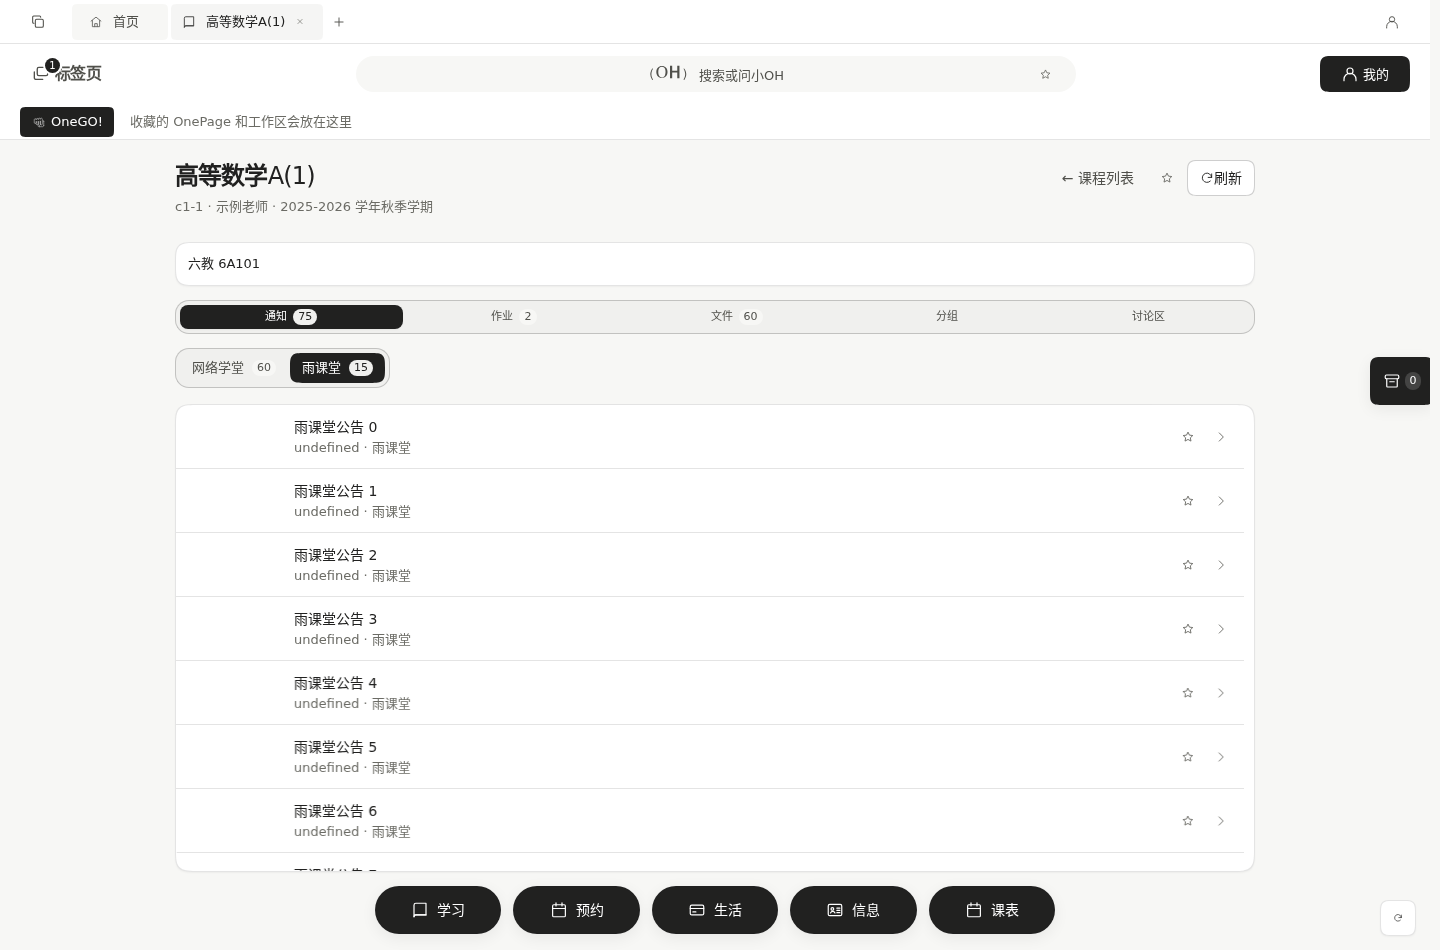
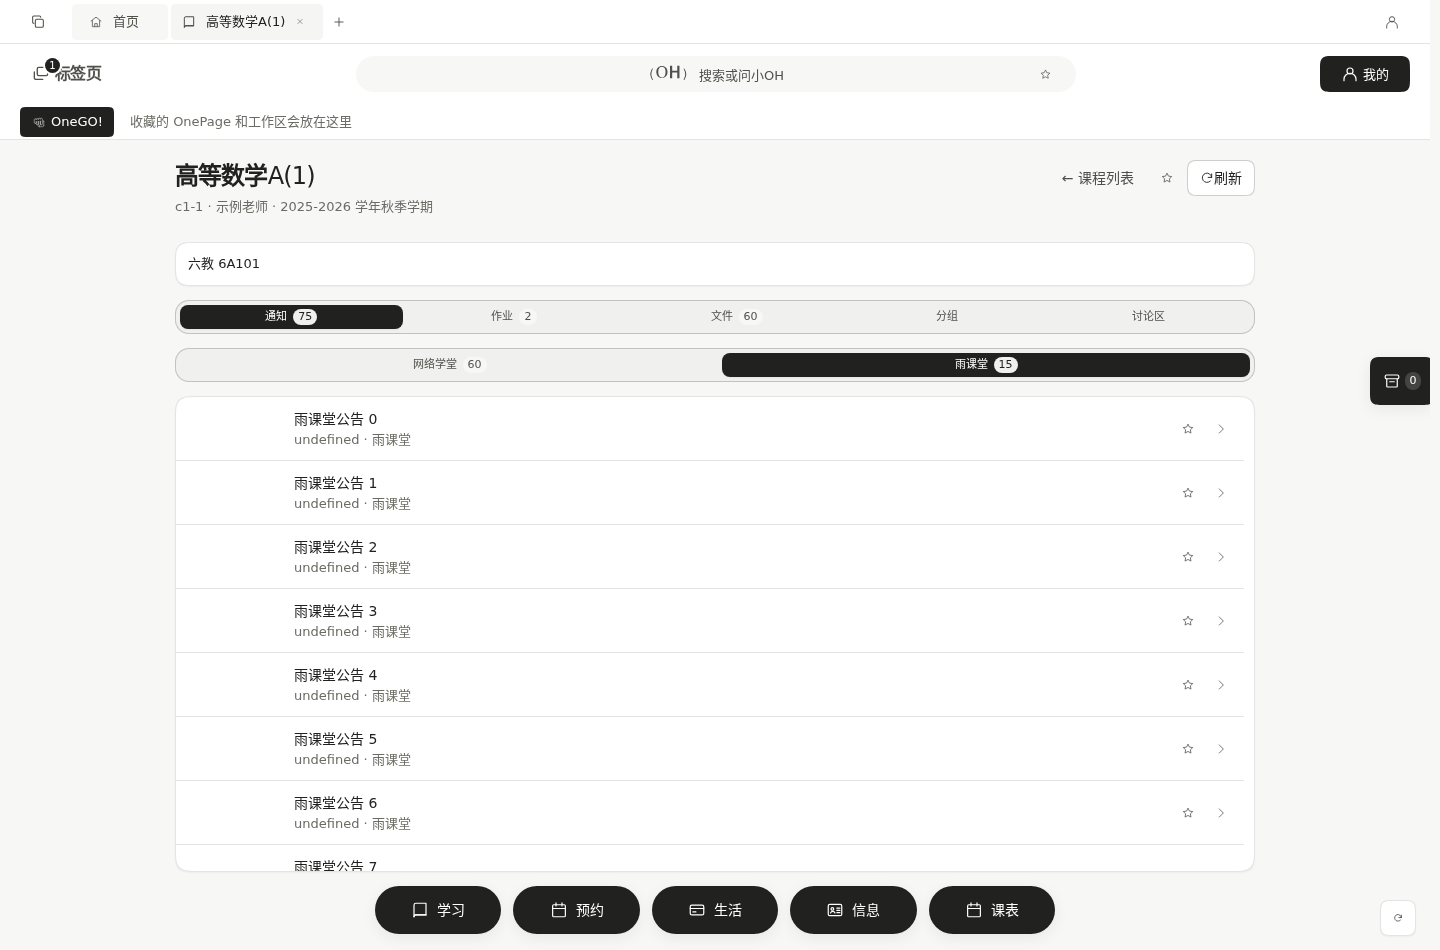
fix(learn): unify course tabs, stagger reveals, horizontal page head, restore card entrance
- 一级/作业筛选/双来源 tab 共用 CourseTabRow（SegmentedOverflow + seg-pill），同宽同动画
- reveal 初始延迟按父级索引计算（网格按行 9ms、列表 30ms），不再整列同时平移
- 页标题入场改为左→右；Learn 课程卡纳入 reveal，恢复网格入场
- 测试覆盖等宽/胶囊过渡/逐项延迟/标题方向/卡动画

Changed region(s): [[0.125, 0.3663, 0.3438, 0.9158], [0.5, 0.3663, 0.875, 0.3968]]

diff --git a/apps/desktop/src/pages/learn/CourseDetailPage.tsx b/apps/desktop/src/pages/learn/CourseDetailPage.tsx
@@ -1,10 +1,10 @@
 import { courseDisplayName } from "../../lib/learnLanguage.js";
 import { t as i18n, useLocale as useUiLocale } from "../../i18n/index.js";
-import { Btn, Tabs } from "@onethu/gui";
+import { Btn } from "@onethu/gui";
 /** 课程详情（learnX CourseDetail）：头部课程信息 + 通知/作业/文件/分组/讨论区 tab 列表。
  *  作业 tab 带状态筛选 chips（未提交/已提交/已批改/全部，AssignmentsPage 同款 segmented），
  *  已批改条目直接显示成绩（HomeworkRow showGrade，thu-app learnHome「已批改 (分数)」语义）。 */
-import { useEffect, useMemo, useState } from "react";
+import { useEffect, useMemo, useState, type ReactNode } from "react";
 import type { LearnGroup } from "@onethu/core";
 import { SegmentedOverflow, Card, Empty, ErrorNote, ListWindow, PageHead, SkeletonRows } from "../../components/Layout.js";
 import { CollectStar } from "../../components/Collect.js";
@@ -31,6 +31,35 @@ const TABS: Array<{ key: Tab; label: string }> = [
   { key: "groups", get label() { return i18n("pages.learn.coursedetailpage.399ee6934772"); } },
   { key: "forum", get label() { return i18n("pages.learn.coursedetailpage.9c92c9d08b05"); } },
 ];
+
+/** 课程页各级 tab 的唯一渲染器：全部走同一个 SegmentedOverflow（滑动胶囊 + 溢出滚动），
+ *  一级 tab、作业状态筛选、通知/文件的网络学堂/雨课堂子 tab 因此同宽同形同动画。
+ *  裸 <button> 只在这里出现一次，避免各调用点各写一套。 */
+interface CourseTabItem { key: string; label: ReactNode; count?: number }
+
+function CourseTabRow({ items, value, onChange, ariaLabel }: {
+  items: CourseTabItem[];
+  value: string;
+  onChange: (key: string) => void;
+  ariaLabel?: string;
+}) {
+  return (
+    <SegmentedOverflow ariaLabel={ariaLabel}>
+      {items.map(({ key, label, count }) => (
+        <button
+          key={key}
+          role="tab"
+          aria-selected={value === key}
+          className={value === key ? "is-active" : ""}
+          onClick={() => onChange(key)}
+        >
+          {label}
+          {count !== undefined ? <span className="tab-count">{count}</span> : null}
+        </button>
+      ))}
+    </SegmentedOverflow>
+  );
+}
 
 /** 作业状态筛选（AssignmentsPage 同款口径：未提交 / 已提交未批改 / 已批改 / 全部） */
 type HwFilter = "unfinished" | "submitted" | "graded" | "ignored" | "all";
@@ -212,23 +241,11 @@ export function CourseDetailPage() {
 
       {state === "error" ? <ErrorNote text={error ?? ""} onRetry={() => void reload()} /> : null}
 
-      <SegmentedOverflow>
-        {TABS.map(({ key, label }) => {
-          const n = counts[key];
-          return (
-            <button
-              key={key}
-              role="tab"
-              aria-selected={tab === key}
-              className={tab === key ? "is-active" : ""}
-              onClick={() => setTab(key)}
-            >
-              {label}
-              {n !== undefined ? <span className="tab-count">{n}</span> : null}
-            </button>
-          );
-        })}
-      </SegmentedOverflow>
+      <CourseTabRow
+        value={tab}
+        onChange={(key) => setTab(key as Tab)}
+        items={TABS.map(({ key, label }) => ({ key, label, count: counts[key] }))}
+      />
 
       {state === "loading" && !data ? (
         <SkeletonRows rows={5} />
@@ -238,13 +255,12 @@ export function CourseDetailPage() {
         ) : (
           <>
             {notices.length > 0 && yktNotices.length > 0 ? (
-              <Tabs
-                className="segmented course-source-tabs"
+              <CourseTabRow
                 value={effectiveNoticeSource}
-                onChange={(value) => setNoticeSource(value as Source)}
+                onChange={(key) => setNoticeSource(key as Source)}
                 items={[
-                  { id: "learn", label: <>{i18n("enum.label.aa39cac2b409")}<span className="tab-count">{notices.length}</span></> },
-                  { id: "ykt", label: <>{i18n("components.attachactionssheet.38b9eabcae1b")}<span className="tab-count">{yktNotices.length}</span></> },
+                  { key: "learn", label: i18n("enum.label.aa39cac2b409"), count: notices.length },
+                  { key: "ykt", label: i18n("components.attachactionssheet.38b9eabcae1b"), count: yktNotices.length },
                 ]}
               />
             ) : null}
@@ -278,20 +294,12 @@ export function CourseDetailPage() {
         ) : (
           <>
             {/* 状态筛选 chips：AssignmentsPage 同款 segmented（含各组计数） */}
-            <SegmentedOverflow ariaLabel={i18n("pages.learn.coursedetailpage.5d2c51e297aa")}>
-              {HW_FILTERS.map(({ key, label }) => (
-                <button
-                  key={key}
-                  role="tab"
-                  aria-selected={hwFilter === key}
-                  className={hwFilter === key ? "is-active" : ""}
-                  onClick={() => setHwFilter(key)}
-                >
-                  {label}
-                  <span className="tab-count">{hwGroups[key].length}</span>
-                </button>
-              ))}
-            </SegmentedOverflow>
+            <CourseTabRow
+              ariaLabel={i18n("pages.learn.coursedetailpage.5d2c51e297aa")}
+              value={hwFilter}
+              onChange={(key) => setHwFilter(key as HwFilter)}
+              items={HW_FILTERS.map(({ key, label }) => ({ key, label, count: hwGroups[key].length }))}
+            />
             {hwList.length === 0 ? (
               <Card><Empty text={hwFilter === "ignored" ? i18n("pages.learn.coursedetailpage.052544849717") : i18n("pages.learn.coursedetailpage.4fc6f287e4e5")} /></Card>
             ) : (
@@ -321,13 +329,12 @@ export function CourseDetailPage() {
         ) : (
           <>
             {files.length > 0 && yktFiles.length > 0 ? (
-              <Tabs
-                className="segmented course-source-tabs"
+              <CourseTabRow
                 value={effectiveFileSource}
-                onChange={(value) => setFileSource(value as Source)}
+                onChange={(key) => setFileSource(key as Source)}
                 items={[
-                  { id: "learn", label: <>{i18n("enum.label.aa39cac2b409")}<span className="tab-count">{files.length}</span></> },
-                  { id: "ykt", label: <>{i18n("components.attachactionssheet.38b9eabcae1b")}<span className="tab-count">{yktFiles.length}</span></> },
+                  { key: "learn", label: i18n("enum.label.aa39cac2b409"), count: files.length },
+                  { key: "ykt", label: i18n("components.attachactionssheet.38b9eabcae1b"), count: yktFiles.length },
                 ]}
               />
             ) : null}

diff --git a/apps/desktop/src/lib/motion.ts b/apps/desktop/src/lib/motion.ts
@@ -84,7 +84,7 @@ export function useExitPhase(active: boolean, ms = 200): { mounted: boolean; clo
  */
 /** 只揭示不带材质的行/列表：玻璃卡片的容器不能有 opacity 动画（会丢背景模糊）。 */
 export const REVEAL_SELECTOR =
-  ":is(.list, .setting-group) > *, .row-click, .mail-row, .news-row, .setting-row, .cloud-row";
+  ":is(.list, .setting-group) > *, .row-click, .mail-row, .news-row, .setting-row, .cloud-row, .learn-course-card";
 
 const LONG_LIST_THRESHOLD = 40;
 
@@ -164,13 +164,27 @@ export function installScrollReveal(): void {
   /** 首屏已经在视口内的项必须在第一帧之前拿到 data-reveal-in：
    *  MutationObserver 在 paint 前跑，若等 100ms 防抖再标记，用户会先看到静止列表，
    *  随后整列突然跳到 -14px 再滑回来（霖 2026-11-01 现场「抽搐一下」）。 */
-  let initialSlot = 0;
   const markVisibleNow = (el: HTMLElement): boolean => {
     const rect = el.getBoundingClientRect();
     if (rect.width <= 0 || rect.height <= 0) return false;
     if (rect.bottom <= 0 || rect.top >= window.innerHeight * 0.92) return false;
-    const grid = el.closest(".app-grid, .thos-grid");
-    el.style.animationDelay = `${Math.min(initialSlot++, 12) * (grid ? 9 : 30)}ms`;
+    const grid = el.closest(".app-grid, .thos-grid, .learn-course-list");
+    // 延迟按「同一父级里的第几个」算，而不是全局计数器：否则先扫描到别的列表后，
+    // 后挂载的列表所有项都拿到 12×30=360ms，看起来是整列同时平移。网格按行分组。
+    let slot = 0;
+    const parent = el.parentElement;
+    if (grid) {
+      const top = Math.round(el.offsetTop);
+      const seen = new Set<number>();
+      for (const child of parent?.children ?? []) {
+        const childTop = Math.round((child as HTMLElement).offsetTop);
+        if (childTop < top) seen.add(childTop);
+      }
+      slot = seen.size;
+    } else if (parent) {
+      slot = Math.max(0, [...parent.children].indexOf(el));
+    }
+    el.style.animationDelay = `${Math.min(slot, 12) * (grid ? 9 : 30)}ms`;
     el.dataset.revealIn = "1";
     return true;
   };

diff --git a/apps/desktop/src/styles/motion.css b/apps/desktop/src/styles/motion.css
@@ -442,12 +442,12 @@ select {
 .tab-anim[data-dir="prev"] {
   animation: none;
 }
-/* 二级页保留一点"换页"感：只动页头块，不碰页面材质与卡片。 */
-.page-anim[data-level="sub"] > .page-head-host {
+/* 页头入场只做横向位移（左→右），不碰页面材质与卡片；主/二级页统一。 */
+.page-anim > .page-head-host {
   animation: m-page-head-in var(--dur-3) var(--ease-ios) backwards;
 }
 @keyframes m-page-head-in {
-  from { transform: translate3d(0, -5px, 0); }
+  from { transform: translate3d(-14px, 0, 0); }
   to { transform: none; }
 }
 
@@ -644,16 +644,19 @@ html.theme-anim .row {
    半透明中间态采样，定格出反色字。行/设置组本身不带材质，位移不影响父卡片模糊。
    已揭示态用 data 属性标记：React 重渲染会整体重写 className，data 属性安全。 */
 html.has-reveal :is(.list, .setting-group) > *,
-html.has-reveal :is(.row-click, .mail-row, .news-row, .setting-row, .cloud-row) {
+html.has-reveal :is(.row-click, .mail-row, .news-row, .setting-row, .cloud-row),
+html.has-reveal .learn-course-card {
   animation: none;
 }
 html.has-reveal :is(.list, .setting-group) > *[data-reveal-in],
-html.has-reveal :is(.row-click, .mail-row, .news-row, .setting-row, .cloud-row)[data-reveal-in] {
+html.has-reveal :is(.row-click, .mail-row, .news-row, .setting-row, .cloud-row)[data-reveal-in],
+html.has-reveal .learn-course-card[data-reveal-in] {
   animation: m-reveal-in var(--dur-3) var(--ease-out) backwards;
 }
 /* 长列表超出 stagger 配额的行：立即显示，不再排队动画（motion.ts 的 STAGGER_MAX 同源）。 */
 html.has-reveal :is(.list, .setting-group) > *[data-reveal-in="instant"],
-html.has-reveal :is(.row-click, .mail-row, .news-row, .setting-row, .cloud-row)[data-reveal-in="instant"] {
+html.has-reveal :is(.row-click, .mail-row, .news-row, .setting-row, .cloud-row)[data-reveal-in="instant"],
+html.has-reveal .learn-course-card[data-reveal-in="instant"] {
   animation: none;
 }
 @keyframes m-reveal-in {

diff --git a/packages/gui/src/recipes/learn.css b/packages/gui/src/recipes/learn.css
@@ -127,30 +127,6 @@ html:root[data-og-skin="glass"] .learn-assignment-list {
 /* 整卡 hover：状态层铺满卡片（含底部标签行），不再只跟着上半部的打开按钮。
    用独立 ::after 叠色，卡面填充/模糊/圆角保持不变；内容抬到状态层之上，
    底部标签按钮自己的 hover 仍照常生效。 */
-/* 课程详情双来源子 tab：沿用主 tab 的 .segmented 胶囊槽，不再用 OneGUI 默认下划线。
-   Tabs 只提供 tablist/键盘语义，视觉由 .segmented 与下面几条对齐。 */
-html:root .course-source-tabs {
-  display: inline-flex;
-  gap: var(--og-geo-xs);
-  width: max-content;
-  max-width: 100%;
-  overflow: visible;
-  vertical-align: middle;
-  margin-bottom: var(--og-space-4);
-}
-html:root .course-source-tabs .og-tabs-indicator { display: none; }
-html:root .course-source-tabs .og-tab {
-  height: var(--og-ctl-h-sm);
-  padding: 0 var(--og-space-3);
-  border-radius: var(--og-radius-full);
-  font-size: var(--og-text-label);
-}
-html:root .course-source-tabs .og-tab > span:first-child {
-  display: inline-flex;
-  align-items: center;
-  gap: var(--og-space-2);
-}
-
 /* 待办筛选：OneGUI Select 在旧 .hw-filter 行里的尺寸（壳 30px，避免旧 34px 特例）。
    Trace 的胶囊开关同理：壳去掉自己的面/线，只留文字与箭头。 */
 html:root .tasks-body .hw-filter-select .og-input {

diff --git a/docs/reviews/2026-11-01-hover-icons-course-card.md b/docs/reviews/2026-11-01-hover-icons-course-card.md
@@ -34,7 +34,7 @@
 
 ## 验证
 
-- `course-source-tabs-browser-test`：14 项（子 tab、默认网络、标题只播一次、行首帧标记、子 tab 与主 tab 样式一致、雨课堂/文件固定视口）。
+- `course-source-tabs-browser-test`：18 项（子 tab、默认网络、标题只播一次、行首帧标记、等宽/滑动胶囊、逐项延迟、雨课堂/文件固定视口）。
 - `card-two-col-browser-test`：7 项（等宽、同高、内部滚动、窄屏堆叠、无横向溢出）。
 - `learn-layout-browser-test`：219 项（含 hover 角形、无双层、整卡覆盖）。
 - `list-window-layout-test`、`assignments-layout-test`、`material-ink-stability`、`select-control`、`glass-optics` 继续通过。
@@ -61,4 +61,16 @@
 
 **双来源 tab 样式**：子 tab 不再用 OneGUI 默认下划线/胶囊，复用主 tab 的 `.segmented` 胶囊槽（`Tabs` 只提供 tablist/键盘语义 + `className="segmented course-source-tabs"`）；主动项深色胶囊、计数样式与主 tab 完全一致。
 
-回归：`course-source-tabs-browser-test` 增至 14 项（标题只播一次/切 tab 不重播、首帧 reveal 标记、子 tab 与主 tab 样式逐属性相等）；`motion-test` 151 项。
+回归：`course-source-tabs-browser-test` 增至 18 项（标题只播一次/切 tab 不重播、首帧 reveal 标记、等宽/滑动胶囊、逐项延迟）；`motion-test` 152 项。
+
+## 7. 二级 tab 统一、列表逐项时间差、标题横移（2026-11-01 傍晚补）
+
+**二级 tab**：上一版用 OneGUI `Tabs`，虽然视觉接近但仍不是同一套结构，没有 `seg-pill` 滑动块，宽度也不是整行。现在把课程页一级 tab、作业状态筛选、通知/文件双来源 tab 全部收进同一个 `CourseTabRow`（内部就是 `SegmentedOverflow` + `.segmented` + `seg-pill`），所以三者同宽（1080/1080）、同形、同一个滑动胶囊过渡，裸 `<button>` 也只保留这一处。
+
+**列表逐项时间差**：reveal 的初始延迟原来用全局计数器，先扫描过别的页面后，后挂载列表的每一项都拿到 12×30ms，看起来整列同时平移。改为按同一父级内的索引算延迟（网格按行分组：同行同时、行间 9ms；列表逐项 30ms），首屏行 0/30/60… 依次进入。
+
+**页标题方向**：`m-page-head-in` 从 `translate3d(0,-5px,0)` 改为 `translate3d(-14px,0,0)`，左→右入场；主页面与二级页统一。
+
+**网络学堂入场动画恢复**：上一版滚动揭示只覆盖 `.row-click` 等行，课程卡 `.learn-course-card` 没有入场。现在把课程卡纳入揭示选择器（网格按行 9ms），Learn 课程卡恢复 `m-reveal-in`；列表/卡片都在第一帧就进入入场首帧，不再先静止再跳回。
+
+回归：`course-source-tabs-browser-test` 18 项（含等宽、`seg-pill` 过渡、逐项延迟）；`learn-layout-browser-test` 225 项（含课程卡入场）；`motion-test` 152 项（含标题左→右关键帧）。
